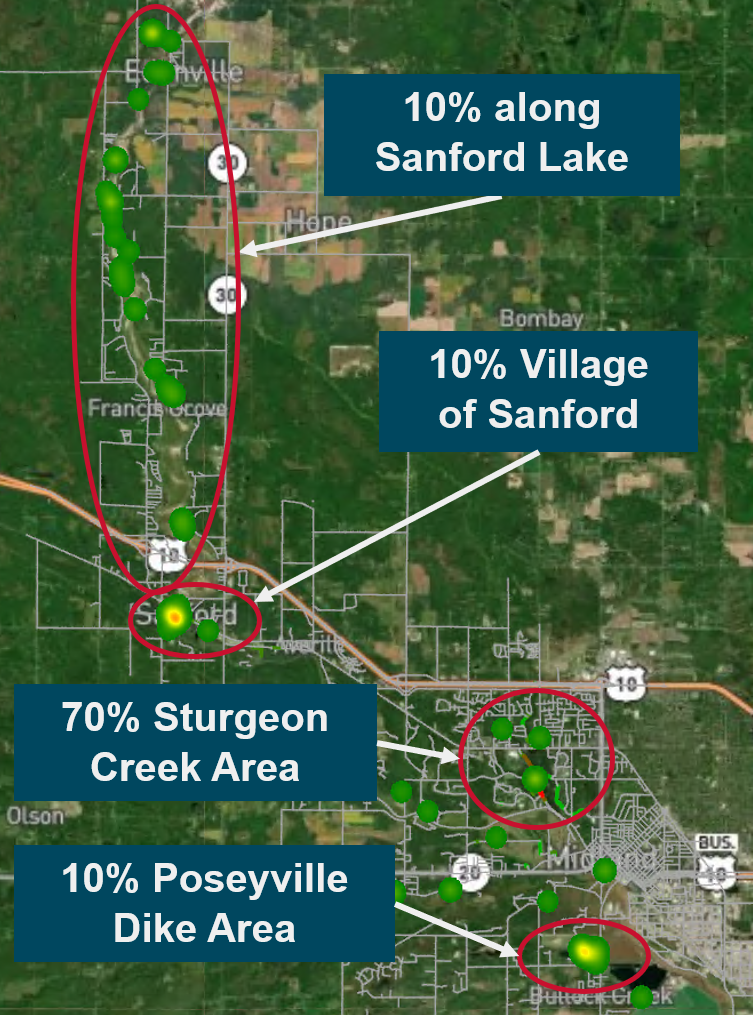
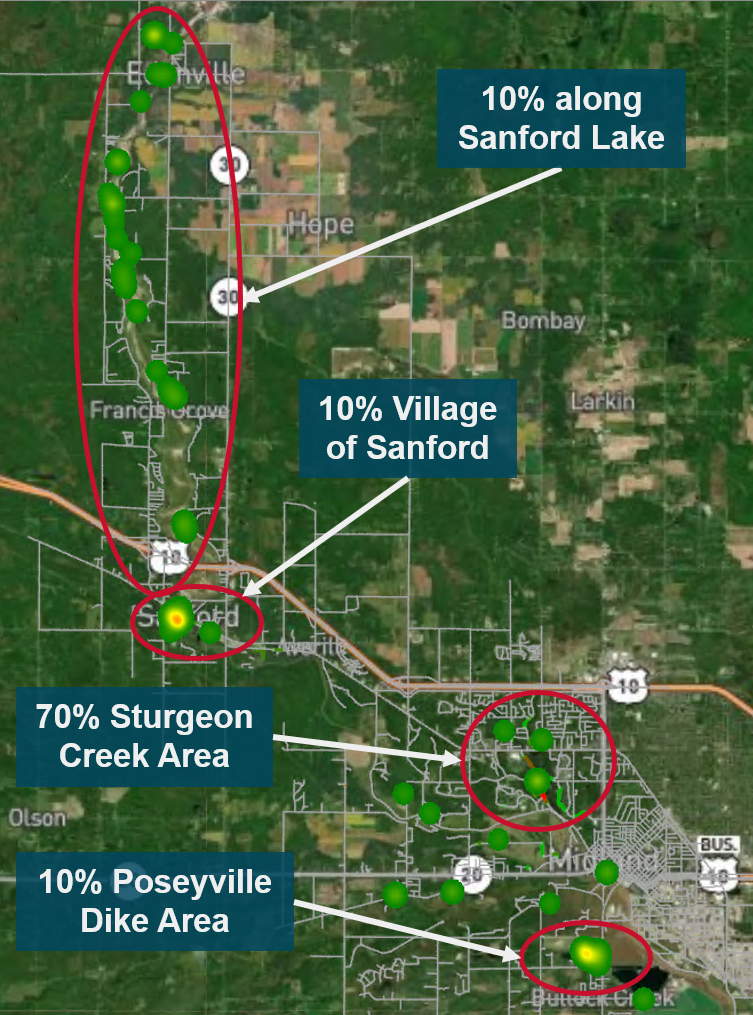
- Revised aesthetics of "Download Model" button for Validation Studies - Searched sitewide font-size and revised for consistency of smaller size edits - Decreased size of labels on Validation Study Midland's figure10.png to better match website

diff --git a/src/css/custom.css b/src/css/custom.css
@@ -239,7 +239,7 @@ p {
 
 blockquote {
   font-family: "Roboto", sans-serif;
-  font-size: clamp(0.8rem, 2.5vw, 1rem);
+  font-size: clamp(0.8rem, 2vw, 1rem);
 }
 
 .title-container {
@@ -261,7 +261,7 @@ blockquote {
   left: 0;
   margin: 20px;
   font-family: "Roboto", sans-serif;
-  font-size: clamp(1rem, 2.5vw, 1.2rem);
+  font-size: clamp(0.8rem, 2vw, 1.0rem);
   cursor: pointer;
   color: var(--ifm-link-color);
 }
@@ -314,7 +314,7 @@ blockquote {
 
 .text-description {
   font-family: "Roboto", sans-serif;
-  font-size: clamp(1rem, 2.5vw, 1.2rem);
+  font-size: clamp(0.8rem, 2vw, 1.0rem);
   color: var(--color);
   margin: 0;
 }
@@ -332,5 +332,5 @@ blockquote {
 }
 
 .tabs-container .tabs__panel {
-  font-size: clamp(1rem, 2.5vw, 1.2rem);
+  font-size: clamp(0.8rem, 2vw, 1.0rem);
 }

diff --git a/src/css/table-horizontal.css b/src/css/table-horizontal.css
@@ -1,7 +1,7 @@
 .table-caption {
   max-width: 100%;
   font-family: "Roboto", sans-serif;
-  font-size: clamp(0.8rem, 2.5vw, 1rem);
+  font-size: clamp(0.7rem, 2vw, 0.9rem);
   font-style: italic;
   color: gray;
   text-align: left;
@@ -33,7 +33,7 @@
 .static-table-horizontal th,
 .static-table-horizontal td {
   font-family: "Roboto", sans-serif;
-  font-size: clamp(1rem, 2.5vw, 1.2rem);
+  font-size: clamp(0.8rem, 2vw, 1.0rem);
   border: 1px solid #ddd;
   padding: 5px;
   text-align: center;

diff --git a/src/css/content-bubble.css b/src/css/content-bubble.css
@@ -57,7 +57,7 @@ html[data-theme="dark"] {
 
 .doc-name p {
   font-family: "Roboto", sans-serif;
-  font-size: clamp(1rem, 2.5vw, 1.2rem);
+  font-size: clamp(1rem, 2vw, 1.2rem);
   text-decoration: none;
   color: var(--color);
   line-height: 1.2;
@@ -66,7 +66,7 @@ html[data-theme="dark"] {
 
 .coming-soon {
   font-family: "Roboto", sans-serif;
-  font-size: clamp(0.8rem, 2.5vw, 1rem);
+  font-size: clamp(1rem, 2vw, 1.2rem);
   text-decoration: none;
   color: var(--color);
   line-height: 1;

diff --git a/src/css/nav-and-print.css b/src/css/nav-and-print.css
@@ -5,7 +5,7 @@
 
 .nav-link {
   font-family: "Roboto", sans-serif;
-  font-size: clamp(1rem, 2.5vw, 1.2rem);
+  font-size: clamp(0.8rem, 2vw, 1.0rem);
   cursor: pointer;
   color: var(--ifm-link-color);
 }
@@ -13,7 +13,7 @@
 .print-to-pdf-container {
   margin-left: auto;
   font-family: "Roboto", sans-serif;
-  font-size: clamp(0.8rem, 2.5vw, 1rem);
+  font-size: clamp(0.8rem, 2vw, 1.0rem);
   cursor: pointer;
   color: var(--ifm-link-color);
 }

diff --git a/src/css/table-bestfit-distributions.css b/src/css/table-bestfit-distributions.css
@@ -24,7 +24,7 @@
 .static-table-vertical-bestfit-partial th,
 .static-table-vertical-bestfit-partial td {
   font-family: "Roboto", sans-serif;
-  font-size: clamp(1rem, 2.5vw, 1.2rem);
+  font-size: clamp(0.8rem, 2vw, 1.0rem);
   border: 1px solid #ddd;
   padding: 5px;
   text-align: left;

diff --git a/src/css/table-acronyms.css b/src/css/table-acronyms.css
@@ -21,7 +21,7 @@
 .static-table-vertical-acronyms th,
 .static-table-vertical-acronyms td {
   font-family: "Roboto", sans-serif;
-  font-size: clamp(1rem, 2.5vw, 1.2rem);
+  font-size: clamp(0.8rem, 2vw, 1.0rem);
   border: 1px solid #ddd;
   padding: 5px;
   text-align: center;

diff --git a/src/css/print-to-PDF-button.css b/src/css/print-to-PDF-button.css
@@ -1,6 +1,6 @@
 .download-pdf-button {
   font-family: "Roboto", sans-serif;
-  font-size: clamp(1rem, 2.5vw, 1.2rem);
+  font-size: clamp(0.8rem, 2vw, 1.0rem);
   cursor: pointer;
   color: var(--ifm-link-color);
   background-color: transparent;

diff --git a/src/css/search-bar.css b/src/css/search-bar.css
@@ -11,7 +11,7 @@
 .search-input {
   padding: 4px 12px;
   font-family: "Roboto", sans-serif;
-  font-size: clamp(0.8rem, 2.5vw, 1rem);
+  font-size: clamp(0.8rem, 2vw, 1.0rem);
   border: 1px solid #ccc;
   border-radius: 4px;
   width: 250px;

diff --git a/src/css/table-vertical.css b/src/css/table-vertical.css
@@ -74,7 +74,8 @@
   color: var(--font-color);
   padding-left: 10px;
   padding-right: 10px;
-  white-space: nowrap;
+  white-space: normal;
+  word-wrap: keep-all;
 }
 
 /* Zebra striping for rows */

diff --git a/src/css/event-tree-toc.css b/src/css/event-tree-toc.css
@@ -1,6 +1,6 @@
 .event-tree-toc-summary {
   font-family: "Roboto", sans-serif;
-  font-size: clamp(1rem, 2.5vw, 1.2rem);
+  font-size: clamp(0.8rem, 2vw, 1.0rem);
 }
 
 .event-tree-toc-list {

diff --git a/src/css/button.css b/src/css/button.css
@@ -15,6 +15,7 @@
 .custom-button:hover {
   background-color: #6799ab;
   color: var(--font-color);
+  text-decoration: none !important;
 }
 
 [data-theme="dark"] .custom-button:hover {

diff --git a/src/css/table-vertical-left-align.css b/src/css/table-vertical-left-align.css
@@ -73,7 +73,7 @@
   padding-left: 10px;
   padding-right: 10px;
   white-space: normal;
-  word-break: break-word;
+  word-wrap: keep-all;
 }
 
 /* Zebra striping for rows */
